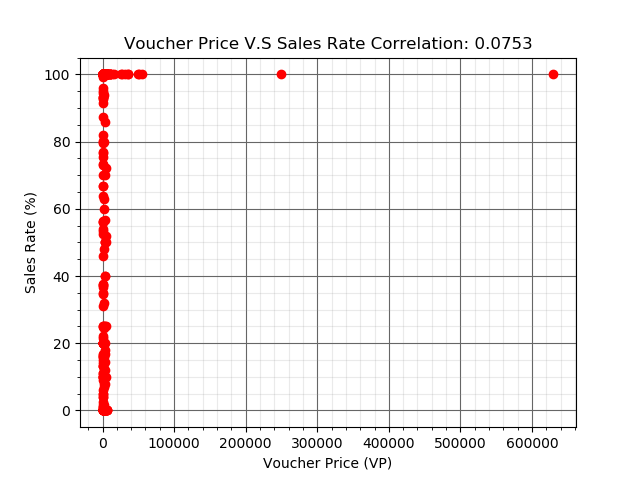
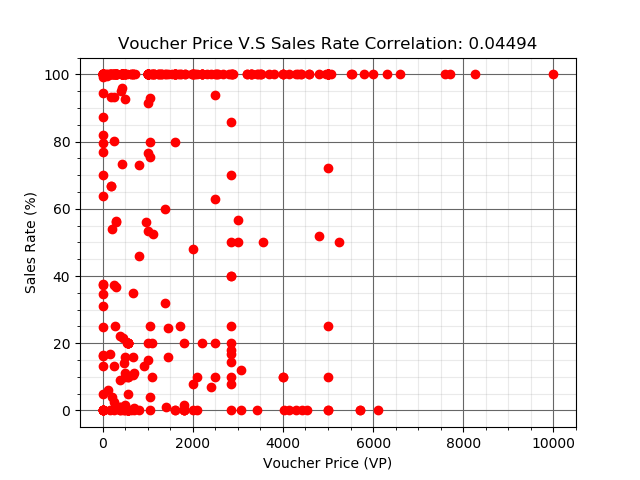
add voucher category and member type analyze

diff --git a/analyze.py b/analyze.py
@@ -14,6 +14,8 @@ def getUserCurrentVP(): # user_vp_from_highest.json
     with open(filePath,encoding='utf-8',errors='ignore') as fp:
         listUserVP = json.load(fp)
     
+    fp.close()
+
     return listUserVP
 
 def plotVPandUserAmount():
@@ -62,6 +64,8 @@ def getVoucherRawData(): # raw_voucher_all.json
 
     with open(filePath,encoding='utf-8',errors='ignore') as fp:
         listVoucherRawData = json.load(fp)
+
+    fp.close()
     
     return listVoucherRawData
 
@@ -75,6 +79,8 @@ def getRawCategoryAll(): # raw_category_all.json
     with open(filePath,encoding='utf-8',errors='ignore') as fp:
         listRawCategory = json.load(fp)
     
+    fp.close()
+
     return listRawCategory
 
 def getVoucherCategoryAll(): # rvoucher_type_all.json
@@ -86,8 +92,60 @@ def getVoucherCategoryAll(): # rvoucher_type_all.json
 
     with open(filePath,encoding='utf-8',errors='ignore') as fp:
         listVoucherCategory = json.load(fp)
+
+    fp.close()
     
     return listVoucherCategory
+
+def getMemberTypeAll(): # member_type_all.json
+    fileName = "member_type_all.json"
+
+    absPath = os.path.abspath(__file__)
+    folder = os.path.dirname(absPath)
+    filePath = folder + "\\" + fileName
+
+    with open(filePath,encoding='utf-8',errors='ignore') as fp:
+        listMemberType= json.load(fp)
+    
+    fp.close()
+
+    return listMemberType
+
+def getVoucherAll(): # voucher_all_and_vouchercode.json
+    fileName = "voucher_all_and_vouchercode.json"
+
+    absPath = os.path.abspath(__file__)
+    folder = os.path.dirname(absPath)
+    filePath = folder + "\\" + fileName
+
+    with open(filePath,encoding='utf-8',errors='ignore') as fp:
+        listVoucherAll= json.load(fp)
+    
+    fp.close()
+    
+    return listVoucherAll
+
+def getVPLogGain(): # voucher_all_and_vouchercode.json
+    fileName1 = "vp_log_gain_1.json"
+    fileName2 = "vp_log_gain_2.json"
+
+    absPath = os.path.abspath(__file__)
+    folder = os.path.dirname(absPath)
+    filePath1 = folder + "\\" + fileName1
+    filePath2 = folder + "\\" + fileName2
+
+    with open(filePath1,encoding='utf-8',errors='ignore') as fp1:
+        listVPLogGain= json.load(fp1)
+    with open(filePath2,encoding='utf-8',errors='ignore') as fp2:
+        listVPLogGain.append(json.load(fp2))
+
+    fp1.close()
+    fp2.close()
+
+    return listVPLogGain
+
+# def analyzeUserBuyVoucher():
+
 
 def analyzeVoucherPriceDateLeft():
     listVoucherRawData = getVoucherRawData()
@@ -102,13 +160,19 @@ def analyzeVoucherPriceDateLeft():
         validFrom = ele['valid_from']
         quantityTotal = ele['quantity_left']
         quantityRemain = ele['quantity_available']
-        paymentType = ele['payment_type_id']
-        voucherType = ele['voucher_type_id']
-        memberType = ele['member_type_id']
-        redeemType = ele['redeem_type_id']
+        # paymentType = ele['payment_type_id']
+        # voucherType = ele['voucher_type_id']
+        # memberType = ele['member_type_id']
+        # redeemType = ele['redeem_type_id']
+        # name = ele['name']
 
         if quantityTotal == 0:
             quantityTotal = -1
+
+        # if quantityTotal < 10:
+        #     price = 0
+        #     quantityRemain = 0
+        #     quantityTotal = 1
 
         listPrice.append(price) # Price
         listDate.append((validUntil - validFrom) / 86400) # Sec -> Days Valid Period
@@ -117,6 +181,7 @@ def analyzeVoucherPriceDateLeft():
     # Price V.S Sales Rate
     correlationPriceSalesRate = round(np.corrcoef(listPrice, listSalesRate)[1,0], 5)
     plt.plot(listPrice, listSalesRate, "ro")
+    # plt.xscale('log')
     title = "Voucher Price V.S Sales Rate Correlation: " + str(correlationPriceSalesRate)
     plt.title(title)
     plt.xlabel("Voucher Price (VP)")
@@ -154,31 +219,66 @@ def analyzeVoucherPriceDateLeft():
 
     # Voucher Category v.s Sales Rate
     listRawCategory = getRawCategoryAll()
-    types = len(listRawCategory)
-    listCategoriesSalesRate = []
+    listMemberType = getMemberTypeAll()
+    lenListRawCategory = len(listRawCategory)
+    lenListMemberType = len(listMemberType)
+    
+    nameList = []
+    targetsMtx = np.zeros((lenListMemberType, lenListRawCategory))
+    baseMtx = np.zeros((lenListMemberType, lenListRawCategory))
+    salesRateMtx = np.zeros((lenListMemberType, lenListRawCategory))
+    
     for type in listRawCategory:
-        targets = 0
-        base = 0
-        for ele in listVoucherRawData:
-            if ele['category_id'] == type['id']:
-                targets = targets + ele['quantity_available']
-                base = base + ele['quantity_left']
-        if base == 0:
-            salesRate = 0
-        else:
-            salesRate = targets / base
-        listCategoriesSalesRate.append(salesRate)
-    plt.hist(listCategoriesSalesRate)
+        nameList.append(type['name'])
+
+    for ele in listVoucherRawData:
+        c = ele['category_id'] - 1
+        r = ele['member_type_id'] - 1
+
+        baseMtx[r][c] = baseMtx[r][c] + ele['quantity_left']
+        targetsMtx[r][c] = targetsMtx[r][c] + ele['quantity_available']
+
+        if ele['member_type_id'] == 1:
+            baseMtx[lenListMemberType][c] = baseMtx[lenListMemberType][c] + ele['quantity_left']
+            targetsMtx[lenListMemberType][c] = targetsMtx[lenListMemberType][c] + ele['quantity_available']
+        elif ele['member_type_id'] == 2:
+            baseMtx[lenListMemberType + 1][c] = baseMtx[lenListMemberType + 1][c] + ele['quantity_left']
+            targetsMtx[lenListMemberType + 1][c] = targetsMtx[lenListMemberType + 1][c] + ele['quantity_available']
+        
+    
+    cols = len(baseMtx[1,:])
+    rows = len(baseMtx[:,1])
+    print(rows, " : ", cols)
+    for r in range(rows):
+        for c in range(cols):
+            if baseMtx[r-1][c-1] == 0:
+                baseMtx[r-1][c-1] = 1
+            salesRateMtx[r-1][c-1] = targetsMtx[r-1][c-1] / baseMtx[r-1][c-1] * 100
+
+    baseArray = range(len(listRawCategory))
+    baseArray = [x+1 for x in baseArray]
+    plt.title("Sales Rate V.S Voucher Catergory and member type")
+    plt.ylabel("Voucher Catergory")
+    plt.xlabel("Sales Rate (%)")
+    # Add Major grid
+    plt.grid(b=True, which='major', color='#666666', linestyle='-')
+    # Add Minor grid
+    plt.minorticks_on()
+    plt.grid(b=True, which='minor', color='#999999', linestyle='-', alpha=0.2)
+    plt.grid(True)
+    barHeight = 0.4
+    plt.barh(baseArray, salesRateMtx[0,:], height=barHeight, tick_label = nameList, color = "blue", label="All", alpha=0.8)
+    plt.barh([x+barHeight for x in baseArray], salesRateMtx[1,:], height=barHeight, color = "red", label="Premium", alpha=0.8)
+    plt.legend()
+    plt.savefig("Sales Rate V.S Voucher Catergory and member type.png")
     plt.show()
 
 
     # Voucher type v.s Sales Rate
-
-    # Member Type v.s Sales Rate
 
     # Payment Type v.s Sales Rate
 
     # Redeem Type v.s Sales Rate
 
 # plotVPandUserAmount()
-analyzeVoucherPriceDateLeft()
+# analyzeVoucherPriceDateLeft()
